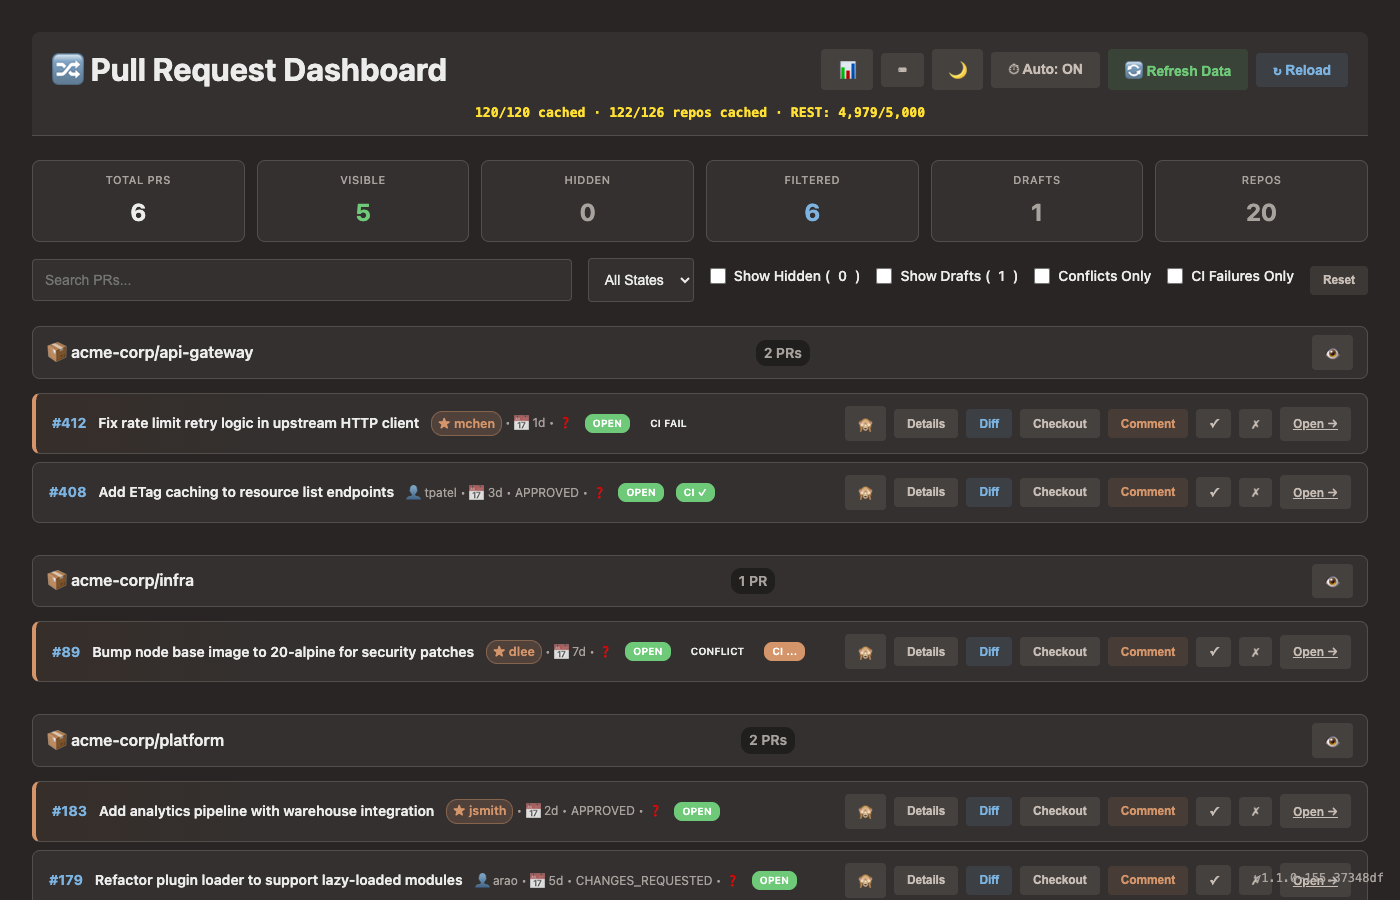
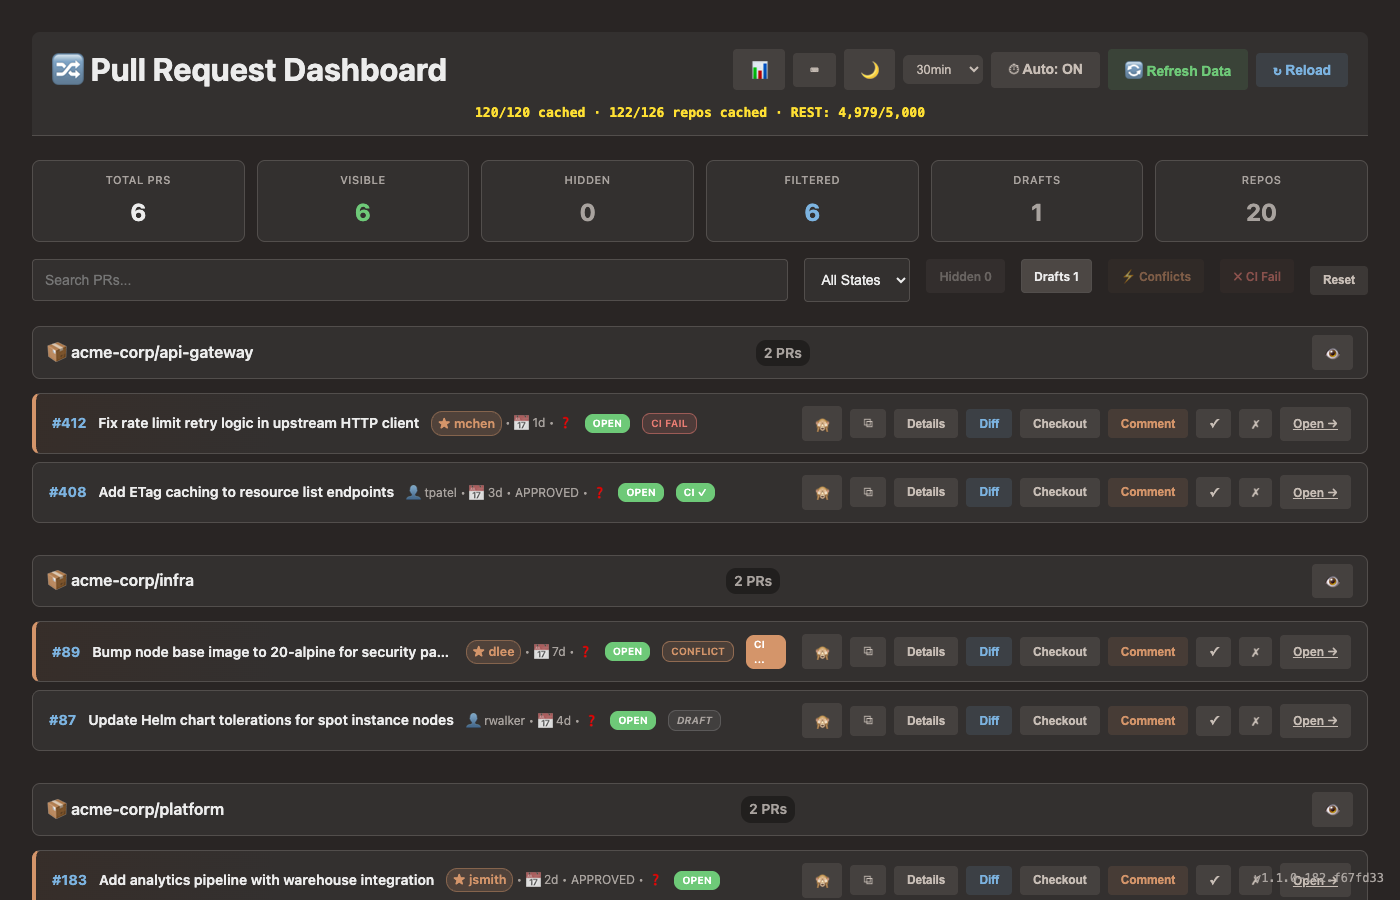
docs: update README and screenshots for auto-refresh interval selector

diff --git a/README.md b/README.md
@@ -88,7 +88,7 @@ Press `?` or click the `⌨` button in the header to open the reference modal.
 ### Data refresh
 
 - **Refresh Data** -- queries all monitored repositories via batched GraphQL (50 repos/query); typically ~7s for 100+ repos; streams real per-repo progress via SSE
-- **Auto-refresh** -- silently runs a full refresh every 30 minutes while the tab is open; manual refresh resets the countdown; perf bar shows `auto: Xm ago` after the first auto-refresh fires; toggle with the `⏱ Auto: ON/OFF` button in the header (state persists in localStorage)
+- **Auto-refresh** -- silently runs a full refresh on a configurable interval (30/60/90/120 min, default 30) while the tab is open; select the interval from the dropdown left of the toggle; manual refresh resets the countdown; perf bar shows `auto: Xm ago` after the first auto-refresh fires; toggle with the `⏱ Auto: ON/OFF` button in the header (state and interval persist in localStorage)
 - **Reload** -- returns the cached PR list instantly (in-memory cache, 30-minute TTL matching the auto-refresh interval) without hitting GitHub
 - **Resilient caching** -- on 403/429/5xx responses, the server serves the last known PR list from its ETag cache rather than returning empty results; protects against GitHub IP outages and secondary rate limits
 - **Performance bar** -- displayed below the header after every load or refresh; click it to open a field-by-field explanation modal
@@ -254,6 +254,7 @@ volumes:
 | `hiddenPRs` | Object keyed by `"owner/repo#number"` |
 | `watchOnlyRepos` | Object keyed by `"owner/repo"` |
 | `autoRefreshEnabled` | `"true"` or `"false"` (default true) |
+| `autoRefreshIntervalMin` | `30`, `60`, `90`, or `120` (default 30) |
 | `diffView` | `unified` or `split` |
 | `filterSearch` | Last search term |
 | `filterState` | Last state filter value |
